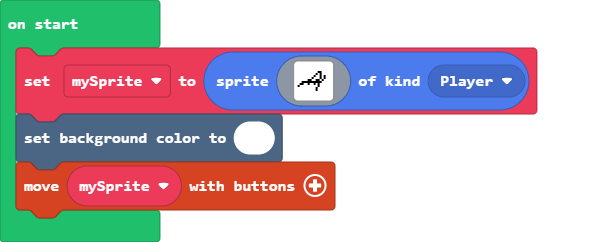
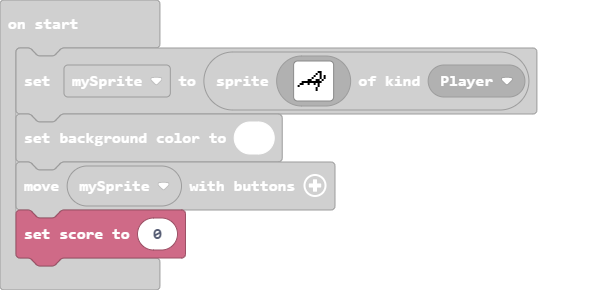
Added score bar

diff --git a/main.ts b/main.ts
@@ -18,3 +18,4 @@ let mySprite = sprites.create(img`
     `, SpriteKind.Player)
 scene.setBackgroundColor(1)
 controller.moveSprite(mySprite)
+info.setScore(0)
